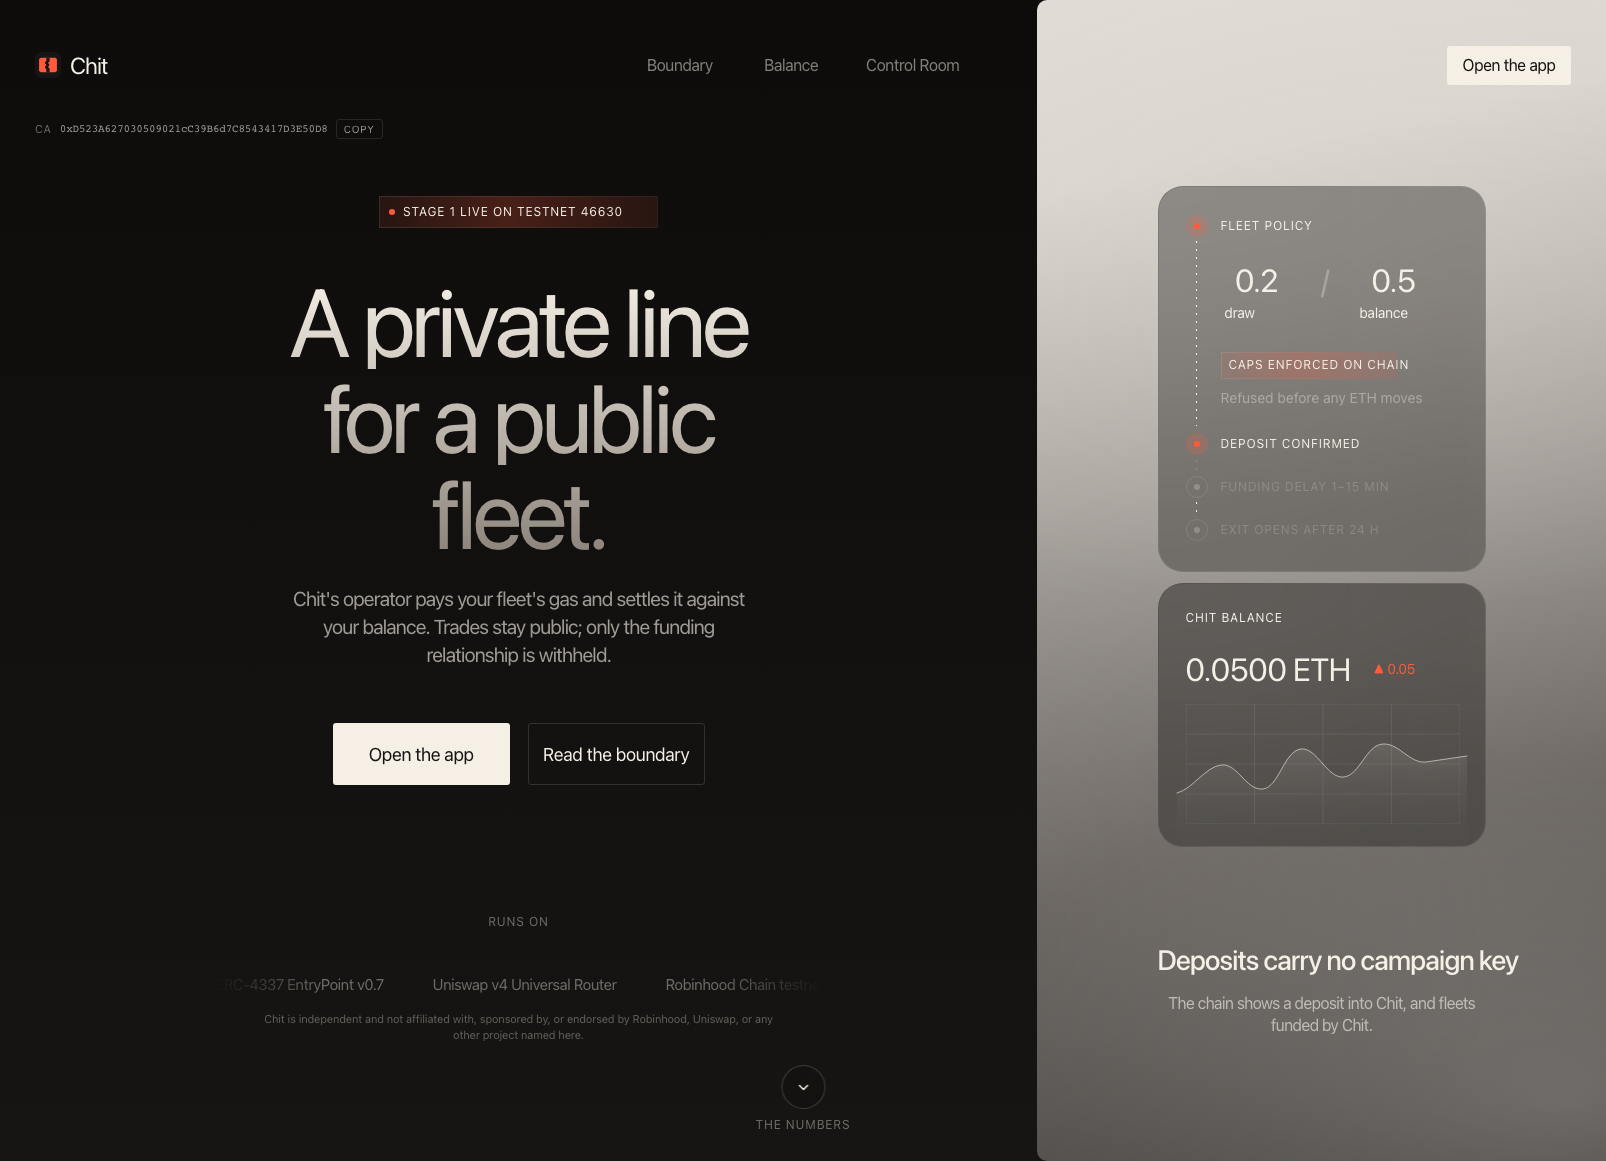
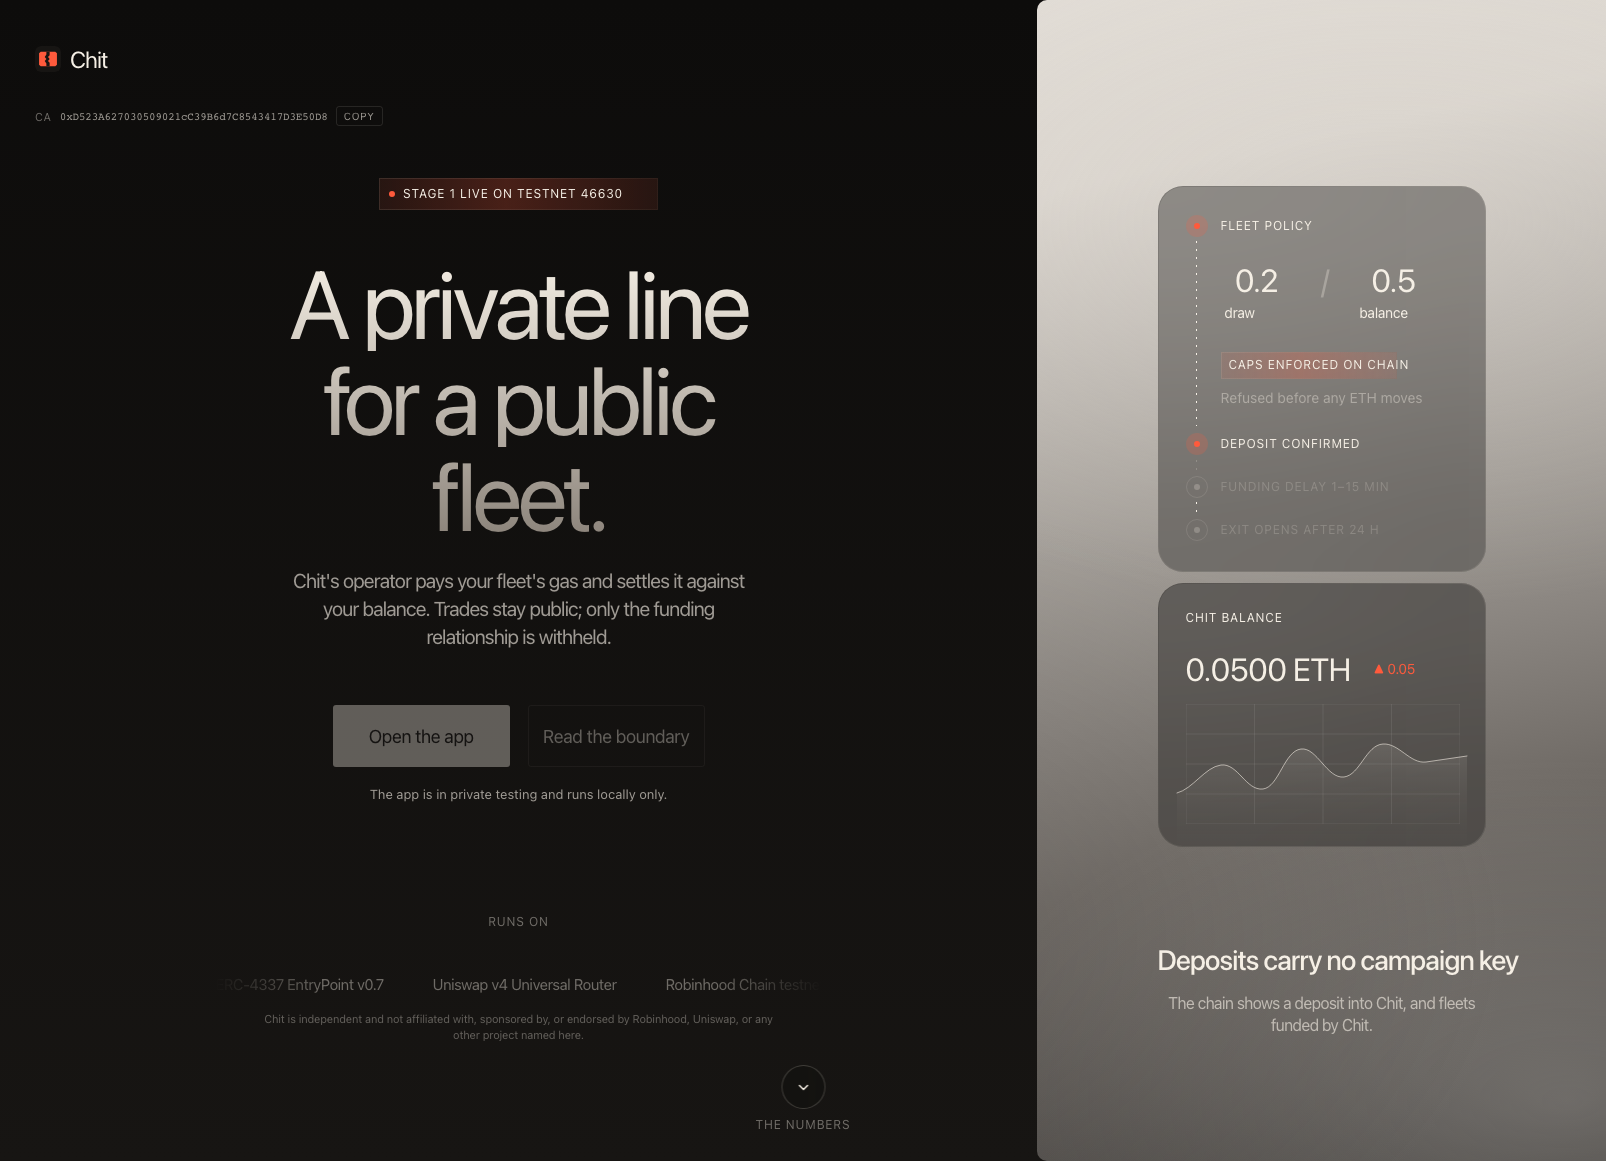
fix(landing): take the app links off the public page and make the CTAs inert
The app is in private testing and runs locally. The landing was linking into
it: a nav pointing at the Boundary, Balance and Control Room pages, a masthead
button, and a hero call to action, all reaching /app. That was my addition and
it should not have shipped.

The nav is gone, since every destination it had was inside the app. Both hero
buttons and the three Learn More buttons are disabled and read as disabled, and
a line under them says the app is in private testing and runs locally only.

The gate gains a guard so this cannot come back: no href into /app, and every
button must carry disabled except the contract copy and the in-page morph cue,
neither of which leaves the landing.

diff --git a/landing/public/index.html b/landing/public/index.html
@@ -64,15 +64,6 @@ window.__entranceFailsafe = setTimeout(() => document.documentElement.classList.
       <span class="brand__name">Chit</span>
       </a>
     </div>
-    <nav class="nav" aria-label="Primary">
-      <ul>
-        <li><a href="/app/fleet-privacy.html">Boundary </a></li>
-        <li><a href="/app/balance.html"> Balance </a></li>
-        <li><a href="/app/fleet-dashboard.html">Control Room</a></li>
-      </ul>
-    </nav>
-    <button class="burger" type="button" aria-label="Menu" aria-expanded="false"><span></span><span></span><span></span></button>
-    <a class="btn-nav" href="/app/fleet.html">Open the app</a>
     <div class="contract-row">
       <span class="contract-row__label">CA</span>
       <code id="contract-address">0xD523A627030509021cC39B6d7C8543417D3E50D8</code>
@@ -97,9 +88,10 @@ window.__entranceFailsafe = setTimeout(() => document.documentElement.classList.
             </h1>
             <p class="hero__sub" data-reveal style="--rv-delay:833ms; --rv-dur:617ms">Chit's operator pays your fleet's gas and settles it against your balance. Trades stay public; only the funding relationship is withheld.</p>
             <div class="hero__actions" data-reveal style="--rv-delay:833ms; --rv-dur:600ms">
-              <a class="btn btn--solid" href="/app/fleet.html">Open the app</a>
-              <a class="btn btn--ghost" href="#boundary">Read the boundary</a>
+              <button class="btn btn--solid" type="button" disabled aria-disabled="true">Open the app</button>
+              <button class="btn btn--ghost" type="button" disabled aria-disabled="true">Read the boundary</button>
             </div>
+            <p class="hero__pending" data-reveal style="--rv-delay:900ms; --rv-dur:600ms">The app is in private testing and runs locally only.</p>
           </div>
         </div>
         <div class="trusted" data-reveal style="--rv-delay:850ms; --rv-dur:600ms">
@@ -246,7 +238,7 @@ window.__entranceFailsafe = setTimeout(() => document.documentElement.classList.
 
         <p class="metric metric--delay"><span class="dot-number" data-dots="15" aria-label="15"></span><span class="metric__unit">min</span></p>
         <p class="caption">Maximum wait<br>before funding</p>
-        <button class="learn-more" type="button">Learn More</button>
+        <button class="learn-more" type="button" disabled aria-disabled="true">Learn More</button>
       </article>
 
       <!-- CARD 2 — draw cap -->
@@ -299,7 +291,7 @@ window.__entranceFailsafe = setTimeout(() => document.documentElement.classList.
 
         <p class="metric metric--draw"><span class="dot-number" data-dots="0.2" aria-label="0.2"></span><span class="metric__unit">ETH</span></p>
         <p class="caption">Refused on chain<br>above this</p>
-        <button class="learn-more" type="button">Learn More</button>
+        <button class="learn-more" type="button" disabled aria-disabled="true">Learn More</button>
       </article>
 
       <!-- CARD 3 — self-serve exit -->
@@ -331,7 +323,7 @@ window.__entranceFailsafe = setTimeout(() => document.documentElement.classList.
 
         <p class="metric metric--exit"><span class="dot-number" data-dots="24" aria-label="24"></span><span class="metric__unit">h</span></p>
         <p class="caption">Works with the<br>service offline</p>
-        <button class="learn-more" type="button">Learn More</button>
+        <button class="learn-more" type="button" disabled aria-disabled="true">Learn More</button>
       </article>
     </div>
   </section>

diff --git a/landing/public/style.css b/landing/public/style.css
@@ -86,8 +86,8 @@ button{background:none;border:0;color:inherit;cursor:pointer}
 
 /* ── 4. MASTHEAD ────────────────────────────────────────── */
 .masthead{position:absolute; z-index:5; left:var(--gutter); right:var(--gutter); top:calc(46 * var(--u));
-  display:grid; grid-template-columns:1fr auto 1fr; align-items:center;
-  grid-template-areas:"brand nav action" "contract contract contract";
+  display:grid; grid-template-columns:minmax(0,1fr); align-items:start;
+  grid-template-areas:"brand" "contract";
   gap:calc(24 * var(--u))}
 .brand-lockup{grid-area:brand}
 .nav{grid-area:nav}
@@ -176,6 +176,10 @@ a:focus-visible, button:focus-visible{outline:2px solid var(--coral); outline-of
 .btn{inline-size:calc(177 * var(--u)); block-size:calc(62 * var(--u)); border-radius:var(--radius-control);
   font-size:calc(18 * var(--u)); letter-spacing:var(--track-narrow);
   display:inline-flex; align-items:center; justify-content:center; transition:background .2s, border-color .2s}
+.btn[disabled]{cursor:not-allowed; opacity:.34}
+.btn[disabled]:hover{background:inherit; border-color:inherit}
+.hero__pending{margin:calc(18 * var(--u)) auto 0; font-size:calc(13 * var(--u));
+  line-height:1.4; text-align:center; color:var(--text-muted); opacity:.72}
 .btn--solid{background:var(--paper); color:var(--ink)}
 .btn--solid:hover{background:var(--soft-paper)}
 .btn--ghost{border:var(--hairline) solid rgba(245,239,229,.14)}
@@ -302,8 +306,9 @@ a:focus-visible, button:focus-visible{outline:2px solid var(--coral); outline-of
   box-shadow:0 1px 0 rgba(245,239,229,.5) inset, 0 1px 3px rgba(40,18,10,.10);
   font-size:calc(14 * var(--cu)); letter-spacing:calc(-.25 * var(--cu));
   transition:transform .18s ease, box-shadow .18s ease}
-.learn-more:hover{transform:translateX(-50%) translateY(calc(-2 * var(--cu)));
+.learn-more:hover:not([disabled]){transform:translateX(-50%) translateY(calc(-2 * var(--cu)));
   box-shadow:0 8px 20px rgba(40,18,10,.20)}
+.learn-more[disabled]{cursor:not-allowed; opacity:.45}
 .learn-more:focus-visible{outline:3px solid var(--coral); outline-offset:3px}
 
 /* 6.3 CARD 1 — funding delay */

diff --git a/landing/public/main.js b/landing/public/main.js
@@ -271,11 +271,14 @@
     seen.observe(metricsSection);
   }
 
-  /* Mobile nav */
+  /* Mobile nav, if the masthead has one. The landing currently does not:
+     every destination it had was inside the app, which is not public yet. */
   const burger = document.querySelector('.burger');
   const nav = document.querySelector('.nav');
-  burger.addEventListener('click', () => {
-    const open = nav.classList.toggle('is-open');
-    burger.setAttribute('aria-expanded', String(open));
-  });
+  if (burger && nav) {
+    burger.addEventListener('click', () => {
+      const open = nav.classList.toggle('is-open');
+      burger.setAttribute('aria-expanded', String(open));
+    });
+  }
 })();
